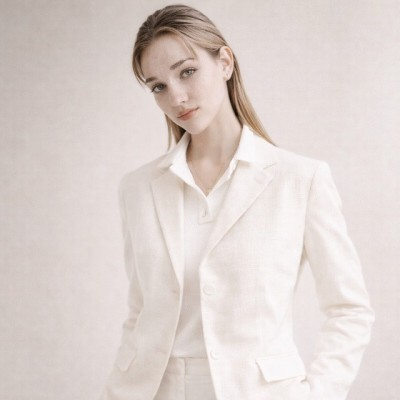
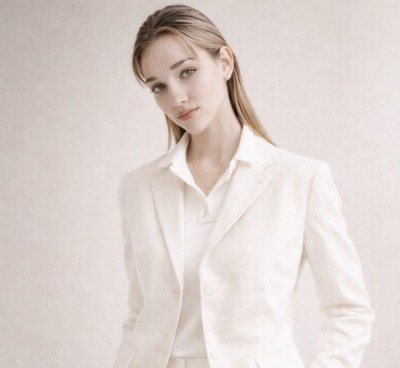
Fix hero portrait grey line, add ONE80 project #8, and link from home.
Crop hero image, strengthen portrait fill CSS, add ONE80 Revolution as project 8 with home featured link, and fix project preview image sizing.

diff --git a/wwwroot/css/site.css b/wwwroot/css/site.css
@@ -90,7 +90,7 @@ html {
     -webkit-text-size-adjust: 100%;
 }
 
-img:not(.navbar-logo):not([data-skip-global-img]), video, svg, canvas {
+img:not(.navbar-logo):not([data-skip-global-img]):not(.wp-preview__img):not(.project-preview__img):not(.hero-portrait-img), video, svg, canvas {
     max-width: 100%;
     height: auto;
 }
@@ -989,10 +989,9 @@ a:hover {
     transform-origin: center center;
 }
 
-.project-card-modern:hover .project-card__preview img,
+.project-card-modern:hover .project-card__preview img:not(.wp-preview__img):not(.project-preview__img),
 .project-card-modern:hover .project-card__preview iframe,
-.project-card-modern:hover .project-card__preview .preview-scene,
-.project-card-modern:hover .project-card__preview .game-preview-link {
+.project-card-modern:hover .project-card__preview .preview-scene {
     transform: scale(1.05);
 }
 
@@ -1194,7 +1193,8 @@ a:hover {
 .project-preview__img {
     width: 100%;
     height: 100%;
-    min-height: 220px;
+    min-height: 100%;
+    max-width: none;
     object-fit: cover;
     object-position: center top;
     display: block;
@@ -1238,8 +1238,9 @@ a:hover {
         max-height: 180px;
     }
 
-    .project-preview__img {
-        min-height: 180px;
+    .project-preview__img,
+    .wp-preview__img {
+        min-height: 100%;
     }
 }
 
@@ -3319,17 +3320,22 @@ textarea:focus-visible {
 .project-preview__frame-wrap--wp-img .project-preview__img-link {
     position: absolute;
     inset: 0;
+    overflow: hidden;
 }
 
 .wp-preview__img {
     width: 100%;
     height: 100%;
+    min-height: 100%;
+    max-width: none;
     object-fit: cover;
+    object-position: center top;
+    display: block;
     transition: transform 0.4s ease;
 }
 
 .project-preview__frame-wrap--wp-img:hover .wp-preview__img {
-    transform: scale(1.05);
+    transform: scale(1.03);
 }
 
 /* Gallery catalogue project card — museum wall preview, tonal match to demo */
